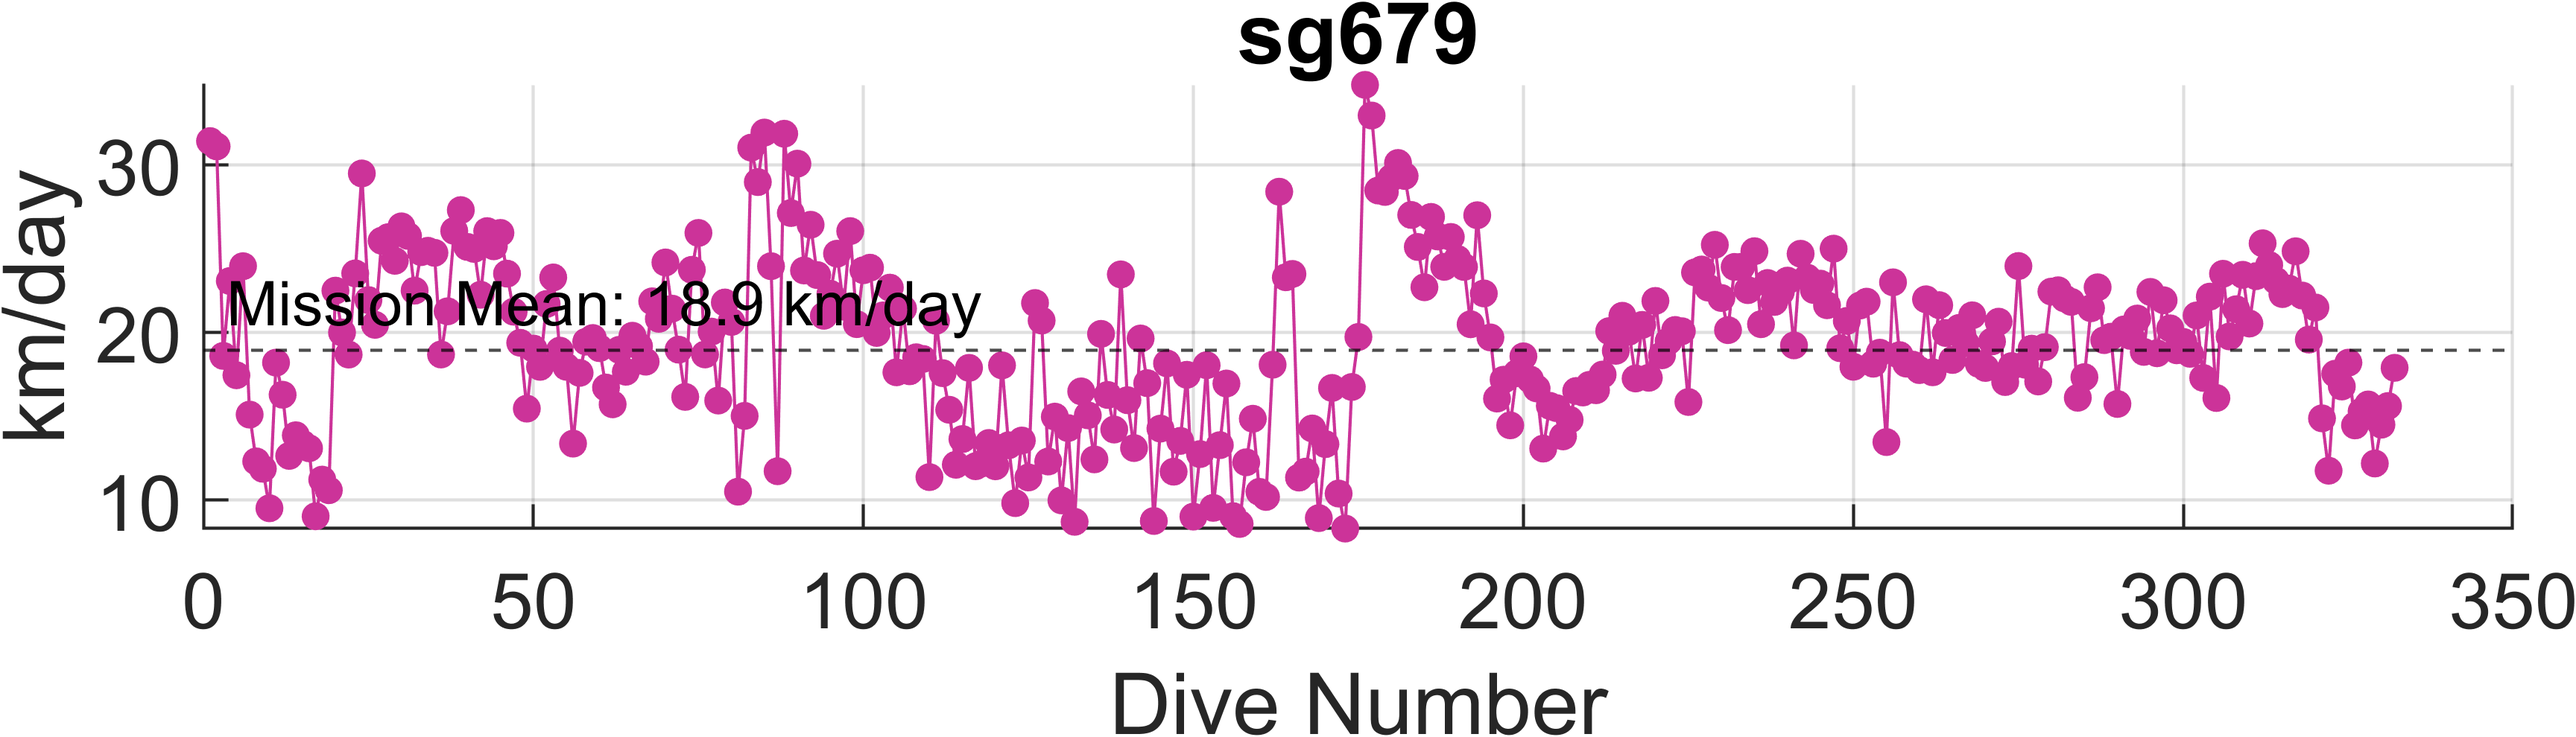
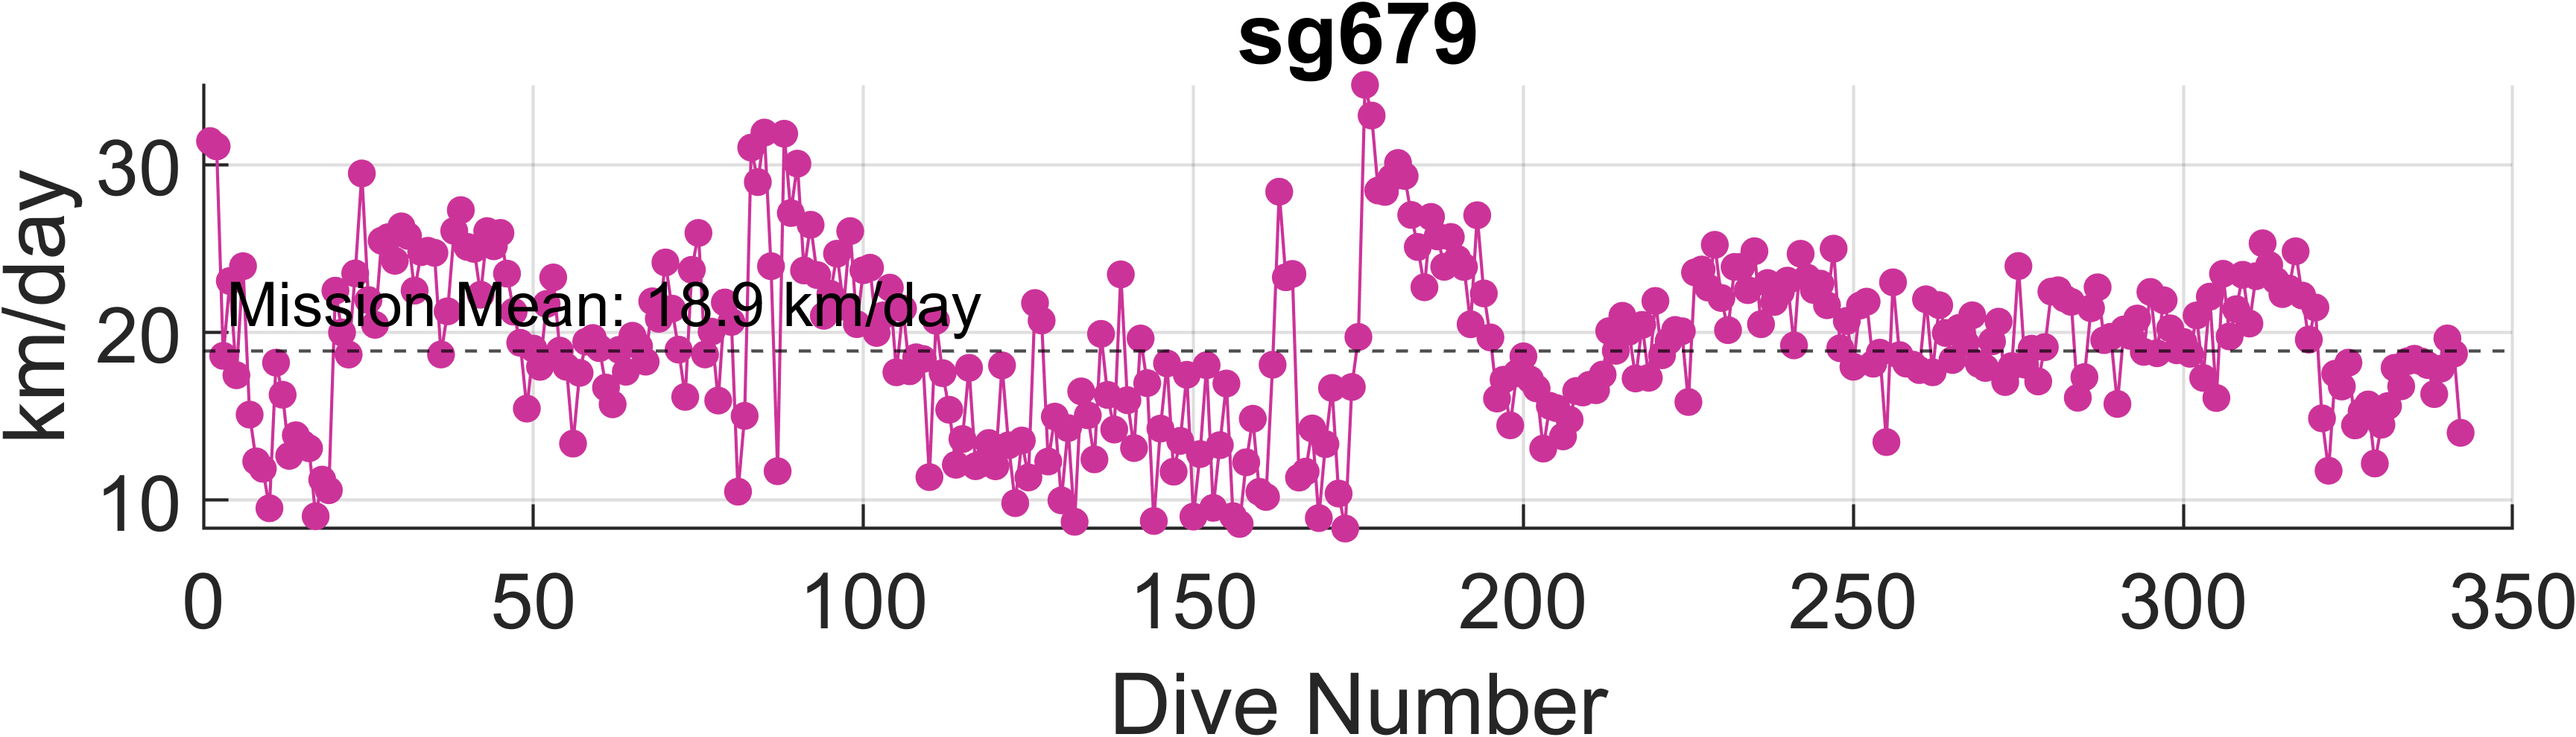
latest run

diff --git a/matlab/WHICEAS_glider_downloads.m b/matlab/WHICEAS_glider_downloads.m
@@ -65,7 +65,8 @@ targetsMidpointsFiles = { ...
     % 'targets_WHICEAS_SG274_1200km_WN_20260209_withMidpoints';
     % 'targets_WHICEAS_SG274_1050km_WN_20260225_withMidpoints';
     % 'targets_WHICEAS_SG274_1050km_WN_20260406_withMidpoints_recoveryMod';
-    'targets_WHICEAS_SG274_1050km_WN_20260408_withMidpoints_recoveryMod';
+    % 'targets_WHICEAS_SG274_1050km_WN_20260408_withMidpoints_recoveryMod';
+        'targets_WHICEAS_SG274_1050km_WN_20260409_withMidpoints_recoveryMod';
     % 'targets_WHICEAS_SG607_950km_LN_20260209_withMidpoints';
     % 'targets_WHICEAS_SG607_1050km_LN_20260224_withMidpoints';
     'targets_WHICEAS_SG607_1050km_LN_20260401_withMidpoints';
@@ -87,7 +88,7 @@ diveLimits = [92; 66; 1; 1];
 
 % planned recovery dates
 plannedRecov = datetime({ ...
-    '2026-04-10 9:00';
+    '2026-04-20 9:00';
     '2026-04-06 9:00';
     '2026-04-14 9:00';
     '2026-04-14 9:00'
@@ -131,7 +132,8 @@ col_tgt = [0 0 0]; % black
 % define targets - simple for mapping
 targetsFiles = {
     % 'targets_WHICEAS_SG274_1200km_WN_20260209';
-    'targets_WHICEAS_SG274_1050km_WN_20260225';
+    % 'targets_WHICEAS_SG274_1050km_WN_20260225';
+        'targets_WHICEAS_SG274_1050km_WN_20260409_recoveryMod';
     % 'targets_WHICEAS_SG607_950km_LN_20260209';
     % 'targets_WHICEAS_SG607_1050km_LN_20260224';
     'targets_WHICEAS_SG607_1050km_LN_20260401';
